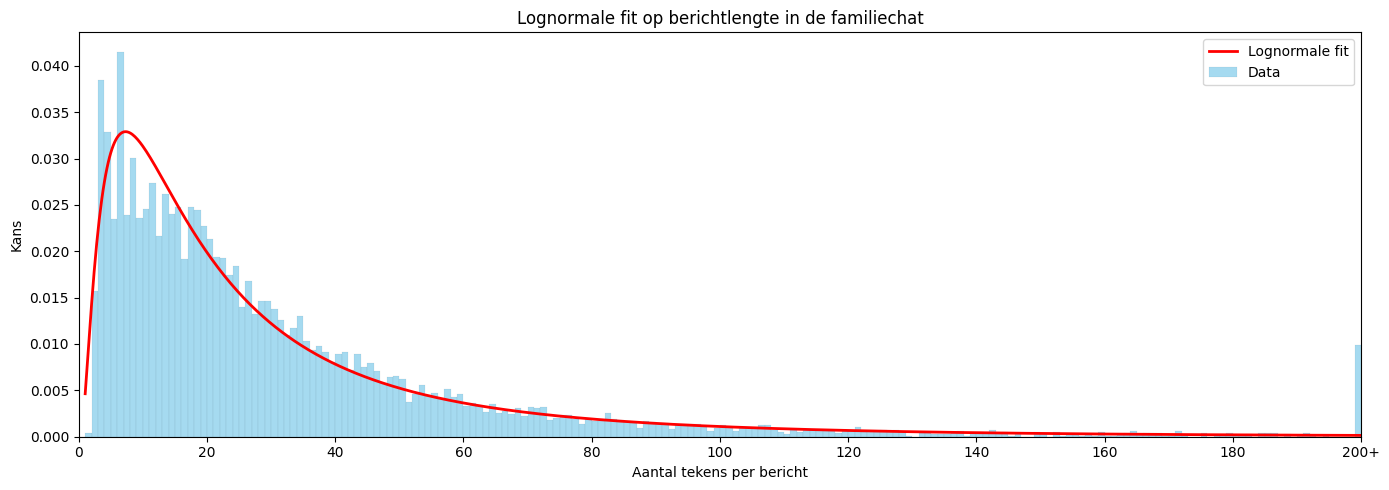
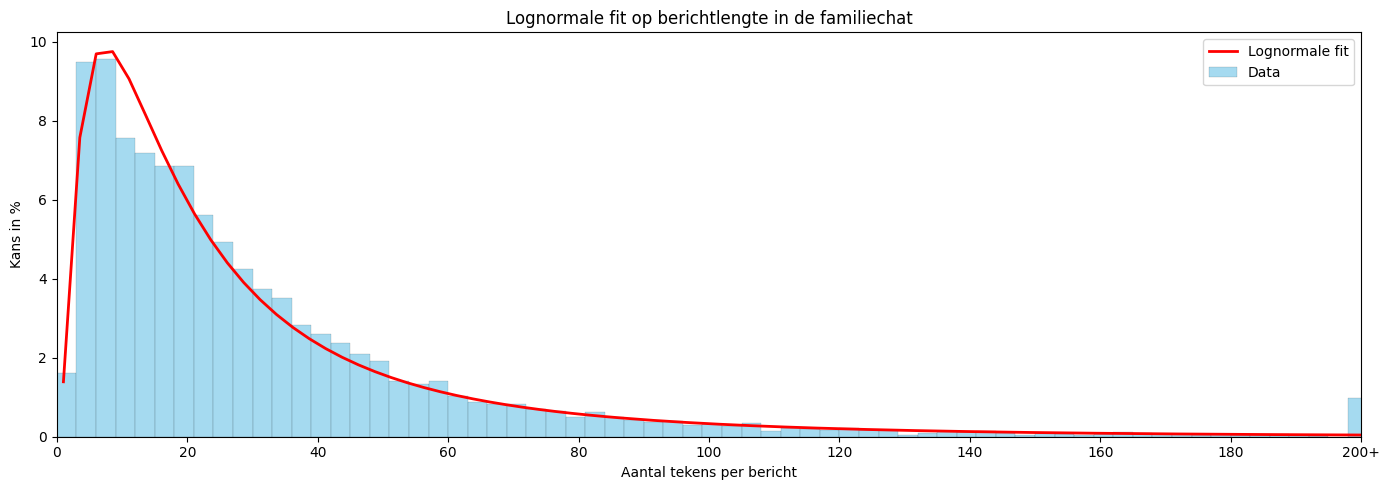
bins aangepast naar 3 en kstest gedaan (gefaald though)

diff --git a/src/les4.py b/src/les4.py
@@ -20,33 +20,39 @@ def generate_message_length_distribution(df: pd.DataFrame, output_path: Path):
     message_lengths = df['message_length']
     positive_lengths = message_lengths[message_lengths > 0]
 
-    # Maak bins: 0–200 in stappen van 1 + alles daarboven in 1 bin
-    bins = list(range(0, 200, 1)) + [positive_lengths.max()]
+    # Maak bins: 0–200 in stappen van 3 + alles daarboven in 1 bin
+    bins = list(range(0, 200, 3)) + [positive_lengths.max()]
 
-    # Fit een lognormale verdeling
+    # Lognormale fit
     shape, loc, scale = lognorm.fit(positive_lengths, floc=0)
-    x = np.linspace(positive_lengths.min(), 200, 1000)
+    x = np.linspace(positive_lengths.min(), positive_lengths.max(), 1000)
     pdf = lognorm.pdf(x, shape, loc=loc, scale=scale)
 
-    # Plot histogram + lognormale fit
+    # Schaal naar percentage: pdf * 100 * binbreedte
+    bin_width = np.diff(bins)[0]  # bijvoorbeeld 1
+    pdf_scaled = pdf * 100 * bin_width
+
+    # Plot histogram met aangepaste bins
     plt.figure(figsize=(14, 5))
     sns.histplot(
         positive_lengths,
         bins=bins,
-        stat="probability",
+        stat="percent",
         color="skyblue",
         edgecolor="black",
         label="Data"
     )
 
-    plt.plot(x, pdf, "r", lw=2, label="Lognormale fit")
+    # Plot fit
+    plt.plot(x, pdf_scaled, "r", lw=2, label="Lognormale fit")
     plt.xlim(0, 200)
     xticks = list(range(0, 200, 20)) + [200]
     xtick_labels = [str(x) for x in xticks[:-1]] + ['200+']
     plt.xticks(xticks, xtick_labels)
 
+    # Extra labels
     plt.xlabel("Aantal tekens per bericht")
-    plt.ylabel("Kans")
+    plt.ylabel("Kans in %")
     plt.title("Lognormale fit op berichtlengte in de familiechat")
     plt.legend()
     plt.tight_layout()
